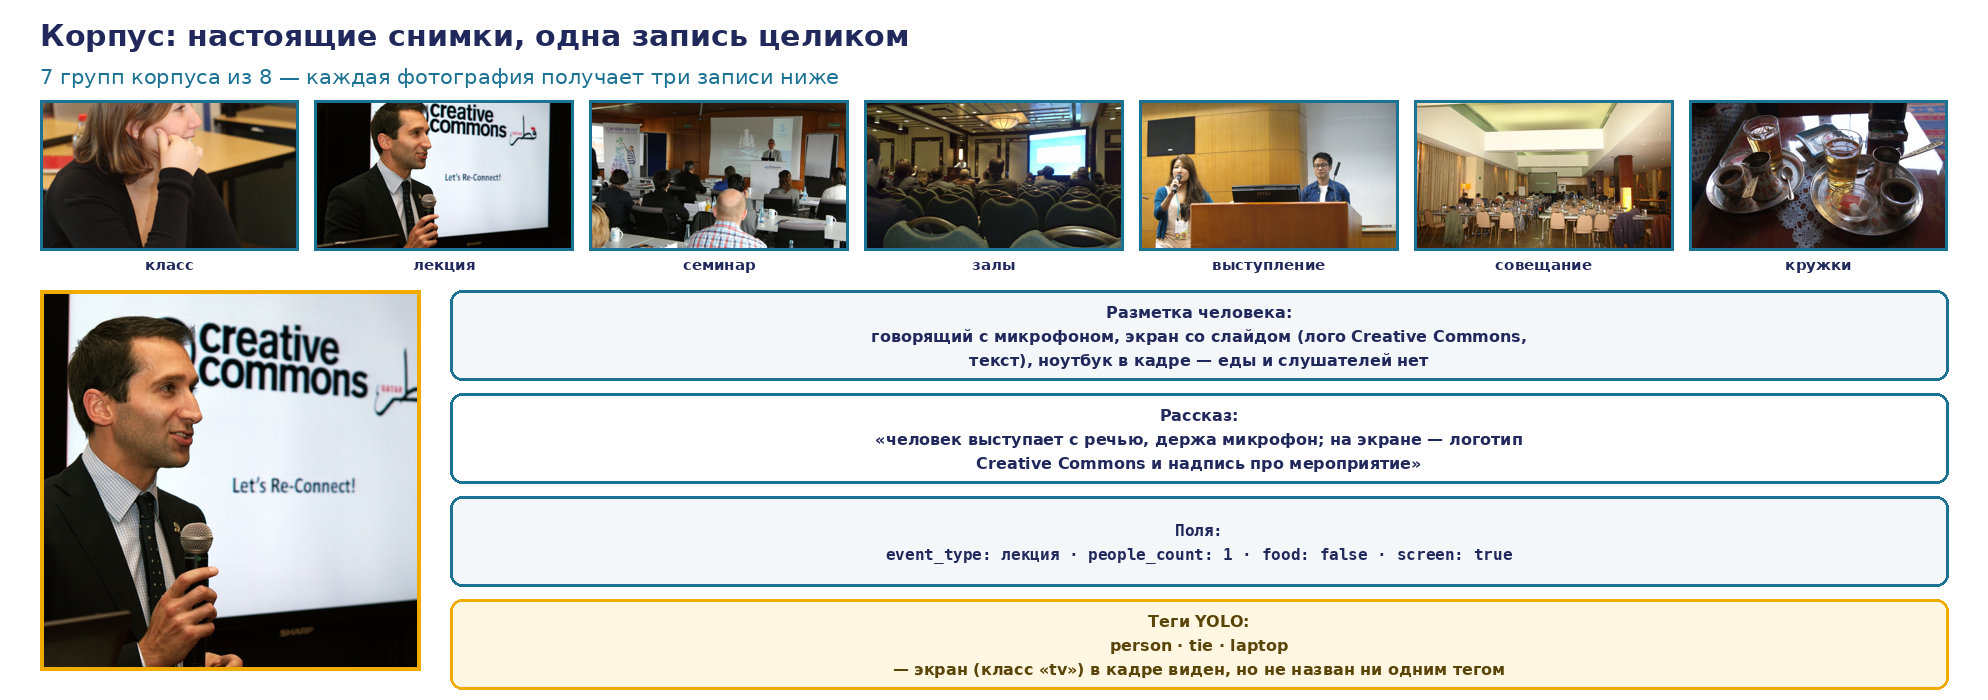
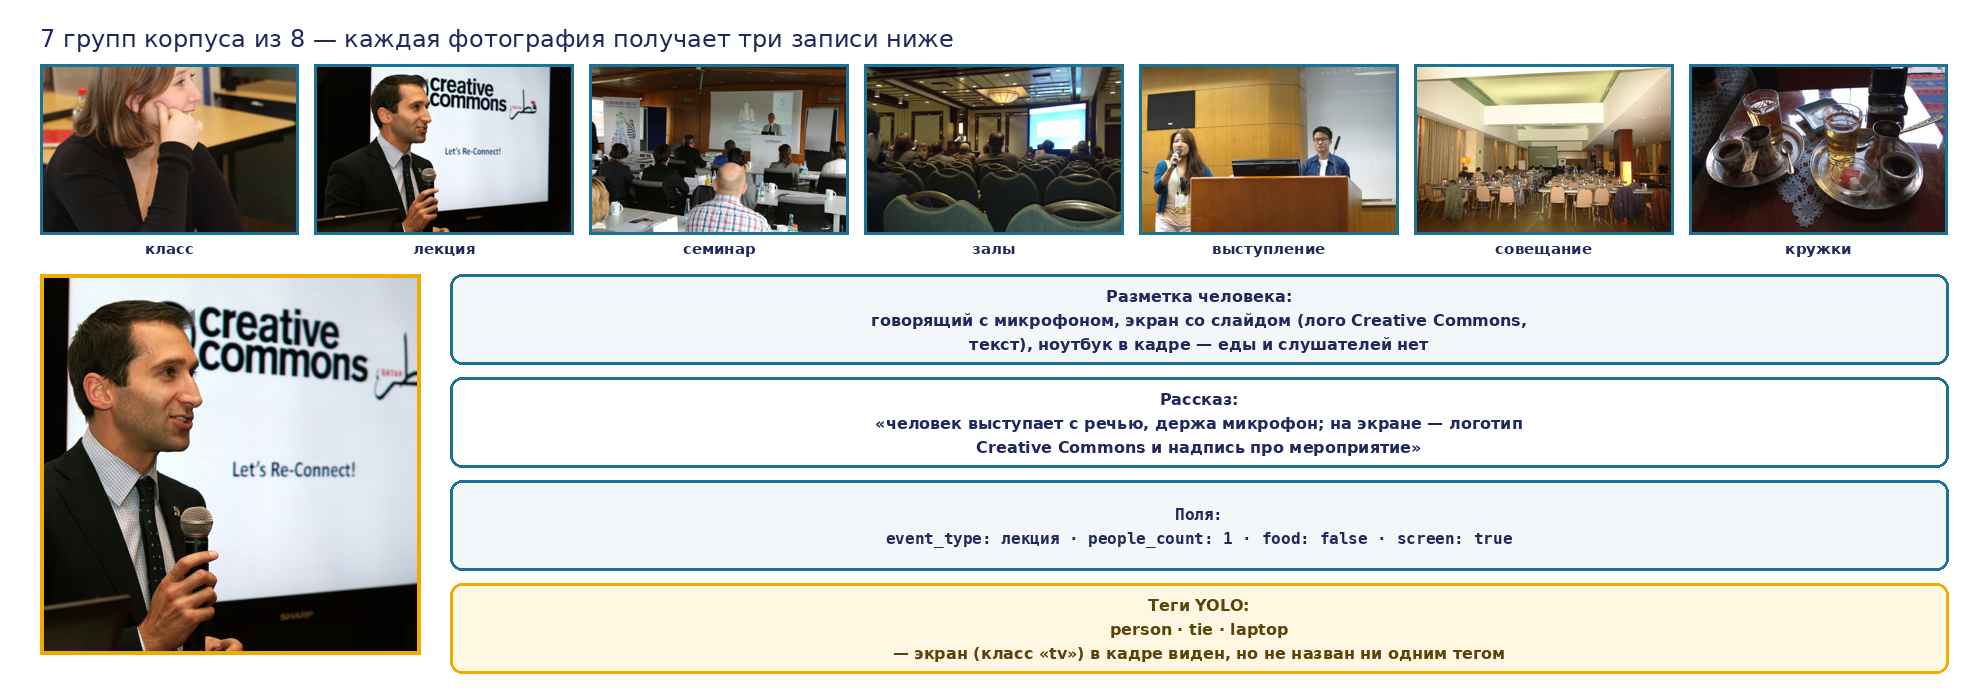
Довод круга 3: убрать дублирующийся заголовок в фигуре n28, наполнить n32
- n28: внутри фигуры case_b_corpus_overview() был свой заголовок
  «Корпус: настоящие снимки...», дублирующий заголовок кадра — снят,
  освобождённая высота ушла на увеличение миниатюр (150→170px)
- n32: таблица+плашка после находок 3+4 стали короче и оставили кадр
  пустым на треть — добавлен второй блок-пример, разводящий полноту и
  корректность на одном снимке из разбора корпуса (n28), без новых чисел
- n32: снята самопохвала «названо прямо, не скрыто» (литкритика) —
  осталось утверждение без оценки собственной честности

issue #351

diff --git a/library/seminars/sem-12/rendered/make_figures_B.py b/library/seminars/sem-12/rendered/make_figures_B.py
@@ -129,16 +129,15 @@ def case_b_corpus_overview():
     n = len(thumbs)
     im = Image.new("RGB", (1988, 700), W)
     d = ImageDraw.Draw(im)
-    head(d, "Корпус: настоящие снимки, одна запись целиком", sz=30)
-    d.text((40, 64),
+    d.text((40, 24),
             f"{n} групп корпуса из {len({e['group'] for e in entries})} — каждая фотография "
             "получает три записи ниже",
-            font=f(21), fill=LIGHT)
+            font=f(24), fill=DEEP)
 
     gap, margin = 16, 40
     tw = (1988 - 2 * margin - (n - 1) * gap) / n
-    th = 150
-    ty = 100
+    th = 170
+    ty = 64
     for i, (g, pid) in enumerate(thumbs):
         tx = margin + i * (tw + gap)
         _paste_fit(im, CORPUS / f"{pid}.jpg", tx, ty, tw, th)

diff --git a/library/seminars/sem-12/slides/n32-svod-zamera.md b/library/seminars/sem-12/slides/n32-svod-zamera.md
@@ -31,7 +31,9 @@ visual:
 | Свободный рассказ | **32 (43,8%)** | **7 из 12 снимков без выдумки (58,3%)** | $3,90 |
 | Теги общим детектором | **26 (35,6%)** | **39 из 44 тегов верны (89%)** | $0 |
 
-> **Две меры, разные знаменатели — названо прямо, не скрыто.** У рассказа корректность — доля снимков выборки без единой строгой выдумки; у тегов — доля верных тегов на той же выборке. Детектор уже у 86,7% своего словарного потолка (26 из 30 строк, которые его словарь вообще способен назвать). Поля по схеме меряются третьей, несовместимой единицей — разбор им отдельным кадром дальше.
+> **У рассказа и тегов корректность — разные знаменатели.** У рассказа — доля снимков выборки без единой строгой выдумки; у тегов — доля верных тегов на той же выборке. Детектор уже у 86,7% своего словарного потолка (26 из 30 строк, которые его словарь вообще способен назвать). Поля по схеме меряются третьей, несовместимой единицей — разбор им отдельным кадром дальше.
+
+> **Полнота и корректность расходятся на одном и том же снимке.** Говорящий с микрофоном из разбора корпуса раньше в этом кейсе: рассказ назвал говорящего, микрофон и логотип на экране — ни одной выдумки, корректность снимка максимальная — и не упомянул ноутбук в кадре вовсе, хотя он есть в разметке. Одна строка полноты потеряна там, где ни одной ошибки корректности нет: высокое число в одной мере не говорит, каким будет число в другой.
 
 ## Speaker notes
 
